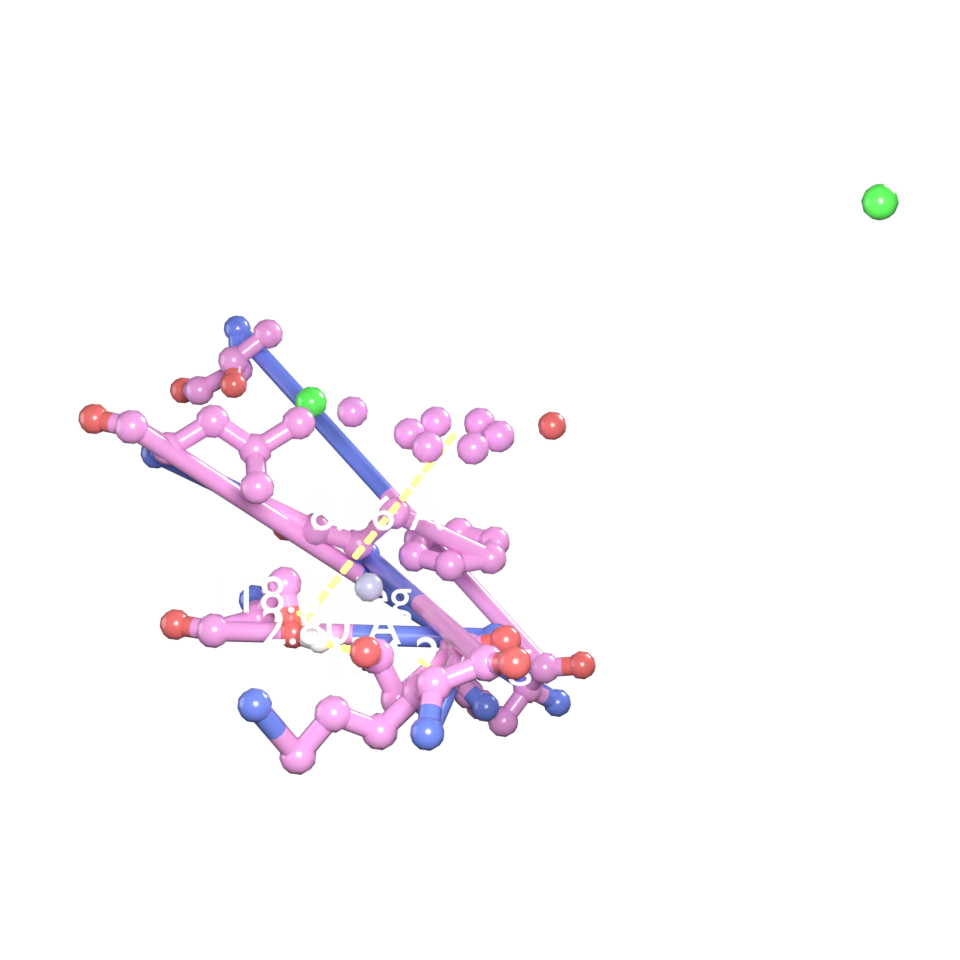
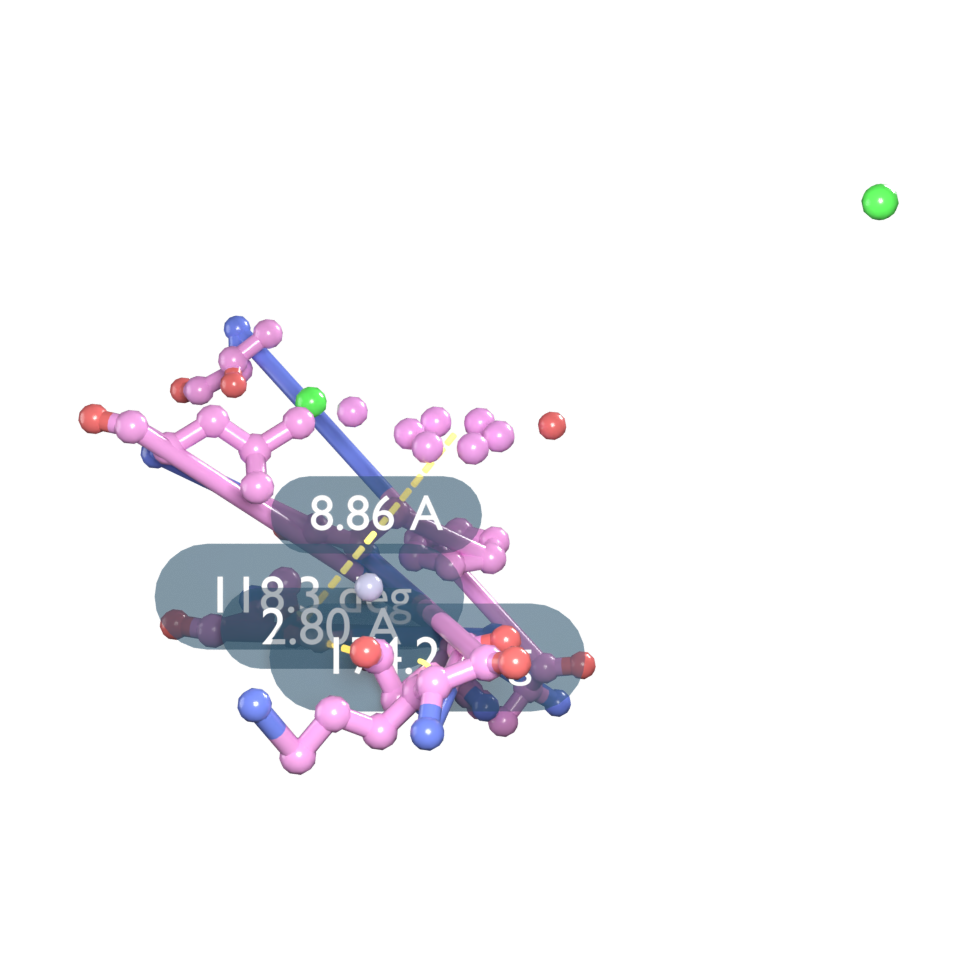
Give distances a backing, and round the corners of every card
White text over a pale molecule is unreadable, and a distance is the one label
that has to be read or it is decoration. Interaction distances and measured
values now sit on a translucent pill.

Pill-shaped and cooler than the residue cards, so the two kinds of label are
told apart by shape and tint rather than by reading them. Same backing for a
detected distance and a measured one, since both are a number over a molecule.

The corners are rounded now, on the residue cards too. D-16 has claimed a
"rounded backing plane" since it was written; the geometry was a four-vertex
quad. `rounded_rectangle` builds the outline, with the corner radius as a
fraction of the shorter half extent, so 0 is the old square card and 1 is the
pill.

The card builder moves to core.geometry, next to make_text and billboard. It
was private to the annotate package, and interactions and measure both needed
it — reaching across for it would have been worse than moving it.

`label_card=False` on either drawing call restores the bare text. The three
tests that counted objects per drawn measurement now expect the card and check
it is rounded and parented to its text.

Changed region(s): [[0.1562, 0.4688, 0.625, 0.75]]

diff --git a/blender_gala/core/geometry.py b/blender_gala/core/geometry.py
@@ -12,6 +12,7 @@ into data blocks.
 
 from __future__ import annotations
 
+import math
 from typing import Any
 
 import numpy as np
@@ -30,6 +31,7 @@ __all__ = [
     "billboard",
     "dash_segments",
     "dihedral_arc_points",
+    "make_card",
     "make_curve",
     "make_line",
     "make_text",
@@ -477,3 +479,139 @@ def billboard(obj: Any, camera: Any = None) -> Any:
     constraint = obj.constraints.new("COPY_ROTATION")
     constraint.target = camera
     return obj
+
+
+def rounded_rectangle(
+    half_width: float,
+    half_height: float,
+    corner: float = 0.35,
+    segments: int = 6,
+) -> list[tuple[float, float, float]]:
+    """Return the outline of a rectangle with rounded corners, anticlockwise.
+
+    Parameters
+    ----------
+    half_width, half_height : float
+        Half extents in local X and Y.
+    corner : float
+        Corner radius as a fraction of the shorter half extent. ``0`` is a
+        plain rectangle and ``1`` a pill — a full semicircle at each end.
+    segments : int
+        Straight segments per corner arc.
+
+    Returns
+    -------
+    list of tuple
+        Vertices in local space, at z = 0.
+    """
+    radius = max(0.0, min(corner, 1.0)) * min(half_width, half_height)
+    if radius <= 0.0:
+        return [
+            (-half_width, -half_height, 0.0),
+            (half_width, -half_height, 0.0),
+            (half_width, half_height, 0.0),
+            (-half_width, half_height, 0.0),
+        ]
+
+    inner_x = half_width - radius
+    inner_y = half_height - radius
+    points: list[tuple[float, float, float]] = []
+    for centre_x, centre_y, start in (
+        (inner_x, -inner_y, -math.pi / 2),
+        (inner_x, inner_y, 0.0),
+        (-inner_x, inner_y, math.pi / 2),
+        (-inner_x, -inner_y, math.pi),
+    ):
+        for step in range(segments + 1):
+            angle = start + (math.pi / 2) * (step / segments)
+            points.append(
+                (
+                    centre_x + radius * math.cos(angle),
+                    centre_y + radius * math.sin(angle),
+                    0.0,
+                )
+            )
+    return points
+
+
+#: Backing for a number sitting over a molecule — an interaction's distance or
+#: a measurement's value. Cool, dark and see-through, against the residue
+#: cards' neutral near-black, and used with a pill shape: different tint and
+#: different outline, so which kind of label you are looking at needs no
+#: thought. White text on a pale molecule is otherwise unreadable.
+LABEL_CARD_COLOUR = (0.02, 0.07, 0.12, 0.62)
+
+
+def make_card(
+    text_object: Any,
+    colour: tuple[float, float, float, float],
+    padding: float = 0.35,
+    corner: float = 0.35,
+    collection: str = gala_collections.LABELS,
+    gala_type: str = "label_card",
+    material_name: str = "GALA Label Card",
+) -> Any | None:
+    """Create a translucent rounded plane sized to sit behind a text object.
+
+    Parameters
+    ----------
+    text_object : bpy.types.Object
+        The ``FONT`` object to back. The card is parented to it, so it inherits
+        the billboard constraint and stays behind the glyphs from any angle.
+    colour : tuple of float
+        Card RGBA. The alpha is what makes it a tint over the scene rather
+        than a hole in it.
+    padding : float
+        Extra size around the text, as a fraction of its dimensions.
+    corner : float
+        Corner rounding, ``0`` square through ``1`` for a pill. See
+        :func:`rounded_rectangle`.
+    collection : str
+        Gala collection to link into — the label's own, so that clearing that
+        category takes its cards with it.
+    gala_type : str
+        Tag to apply.
+    material_name : str
+        Name for the card material.
+
+    Returns
+    -------
+    bpy.types.Object or None
+        ``None`` when the text has no dimensions to measure yet.
+    """
+    bpy_mod = _require_bpy()
+    from ..scene import materials as gala_materials
+
+    # Text dimensions are only valid once the depsgraph has evaluated the font.
+    bpy_mod.context.view_layer.update()
+    width, height, _ = text_object.dimensions
+    if width <= 0 or height <= 0:
+        return None
+
+    half_w = width * (0.5 + padding)
+    half_h = height * (0.5 + padding * 2.0)
+    points = rounded_rectangle(half_w, half_h, corner)
+
+    mesh = bpy_mod.data.meshes.new(f"{text_object.name} card")
+    mesh.from_pydata(points, [], [list(range(len(points)))])
+    mesh.update()
+
+    card = bpy_mod.data.objects.new(f"{text_object.name} card", mesh)
+    # Behind the text along the label's local -Z.
+    card.location = (0.0, 0.0, -max(width, height) * 0.01)
+    card.parent = text_object
+
+    material = gala_materials.build_material(
+        gala_materials.MATERIAL_PRESETS["label"].with_(
+            base_color=colour,
+            emission_strength=0.0,
+            alpha=colour[3],
+            use_attribute_color=False,
+        ),
+        name=material_name,
+    )
+    mesh.materials.append(material)
+
+    gala_collections.link_object(card, collection)
+    gala_collections.tag(card, gala_type)
+    return card

diff --git a/blender_gala/annotate/labels.py b/blender_gala/annotate/labels.py
@@ -167,7 +167,7 @@ def label(
         created.append(obj)
 
         if style == "card":
-            card = _make_card(obj, card_colour, padding=0.35)
+            card = geometry.make_card(obj, card_colour, padding=0.35, corner=0.35)
             if card is not None:
                 created.append(card)
 
@@ -228,58 +228,6 @@ def _label_entries(
         )
         entries.append((body, position))
     return entries
-
-
-def _make_card(
-    text_object: Any,
-    colour: tuple[float, float, float, float],
-    padding: float = 0.35,
-) -> Any | None:
-    """Create a translucent plane sized to sit behind a text object."""
-    bpy_mod = _require_bpy()
-
-    # Text dimensions are only valid once the depsgraph has evaluated the font.
-    bpy_mod.context.view_layer.update()
-    width, height, _ = text_object.dimensions
-    if width <= 0 or height <= 0:
-        return None
-
-    half_w = width * (0.5 + padding)
-    half_h = height * (0.5 + padding * 2.0)
-
-    mesh = bpy_mod.data.meshes.new(f"{text_object.name} card")
-    mesh.from_pydata(
-        [
-            (-half_w, -half_h, 0.0),
-            (half_w, -half_h, 0.0),
-            (half_w, half_h, 0.0),
-            (-half_w, half_h, 0.0),
-        ],
-        [],
-        [(0, 1, 2, 3)],
-    )
-    mesh.update()
-
-    card = bpy_mod.data.objects.new(f"{text_object.name} card", mesh)
-    # Behind the text along the label's local -Z, so the billboard constraint
-    # keeps the card behind the glyphs from every angle.
-    card.location = (0.0, 0.0, -max(width, height) * 0.01)
-    card.parent = text_object
-
-    material = gala_materials.build_material(
-        gala_materials.MATERIAL_PRESETS["label"].with_(
-            base_color=colour,
-            emission_strength=0.0,
-            alpha=colour[3],
-            use_attribute_color=False,
-        ),
-        name="GALA Label Card",
-    )
-    mesh.materials.append(material)
-
-    gala_collections.link_object(card, gala_collections.LABELS)
-    gala_collections.tag(card, "label_card")
-    return card
 
 
 def label_residues(

diff --git a/tests/test_blender_integration.py b/tests/test_blender_integration.py
@@ -234,7 +234,20 @@ def test_interaction_labels_are_optional(site_molecule):
     found = detect.hydrogen_bonds(structure)
 
     assert len(draw.draw_interactions(found, target=structure, label=False)) == 1
-    assert len(draw.draw_interactions(found, target=structure, label=True)) == 2
+    assert (
+        len(
+            draw.draw_interactions(
+                found, target=structure, label=True, label_card=False
+            )
+        )
+        == 2
+    ), "the line and its text"
+
+    created = draw.draw_interactions(found, target=structure, label=True)
+    assert len(created) == 3, "the line, its text and the pill behind it"
+    card = created[-1]
+    assert card.parent is created[-2], "the card rides with the text it backs"
+    assert len(card.data.vertices) > 4, "rounded, not a plain quad"
 
 
 @requires_mn
@@ -264,12 +277,15 @@ def test_distance_draws_a_line_and_a_label(site_molecule):
     result = measurements.distance(
         site_molecule, "resi 1 and name OG", "resi 2 and name OD1", draw=True
     )
-    assert len(result.objects) == 2
+    assert len(result.objects) == 3, "the line, its value and the pill behind it"
     kinds = {obj.get("gala_type") for obj in result.objects}
     assert kinds == {"measurement_distance", "measurement_label_distance"}
 
     label = next(o for o in result.objects if o.type == "FONT")
     assert label.data.body == "2.80 A"
+
+    card = next(o for o in result.objects if o.type == "MESH" and o.parent is label)
+    assert len(card.data.vertices) > 4, "rounded, not a plain quad"
 
 
 @requires_mn
@@ -315,7 +331,7 @@ def test_clear_measurements(site_molecule):
     measurements.distance(
         site_molecule, "resi 1 and name OG", "resi 2 and name OD1", draw=True
     )
-    assert draw.clear_measurements() == 2
+    assert draw.clear_measurements() == 3, "line, value and card go together"
 
 
 # ---------------------------------------------------------------------------

diff --git a/blender_gala/interactions/draw.py b/blender_gala/interactions/draw.py
@@ -88,6 +88,7 @@ def draw_interactions(
     target: Any = None,
     styles: dict[str, InteractionStyle] | None = None,
     label: bool | None = None,
+    label_card: bool = True,
     label_template: str = "{distance:.1f}",
     label_size: float = 1.2,
     name_prefix: str = "GALA",
@@ -108,6 +109,9 @@ def draw_interactions(
         :data:`INTERACTION_STYLES`.
     label : bool, optional
         Force distance labels on or off. ``None`` uses each style's default.
+    label_card : bool, optional
+        Put a translucent pill behind each distance label. On by default: the
+        text is white, and white on a pale molecule is unreadable.
     label_template : str, optional
         ``str.format`` template with ``distance``, ``angle``, ``kind`` and
         ``label`` available.
@@ -184,6 +188,23 @@ def draw_interactions(
         )
         geometry.billboard(text_object)
         created.append(text_object)
+
+        # A pill behind the number. White text on a pale protein is unreadable,
+        # and a distance is the one label that has to be legible or it is just
+        # decoration. Pill-shaped and cooler than the residue cards, so the two
+        # kinds of label are told apart at a glance rather than read.
+        if label_card:
+            card = geometry.make_card(
+                text_object,
+                geometry.LABEL_CARD_COLOUR,
+                padding=0.3,
+                corner=1.0,
+                collection=gala_collections.INTERACTIONS,
+                gala_type=f"interaction_label_{interaction.kind}",
+                material_name="GALA Interaction Label Card",
+            )
+            if card is not None:
+                created.append(card)
 
     return created
 

diff --git a/blender_gala/measure/draw.py b/blender_gala/measure/draw.py
@@ -36,6 +36,7 @@ def draw_measurement(
     label_template: str | None = None,
     label_size: float = 1.5,
     label_offset: float = 0.5,
+    label_card: bool = True,
     arc: bool = True,
     scale: float | None = None,
 ) -> list[Any]:
@@ -65,6 +66,9 @@ def draw_measurement(
         available. Defaults to the formatted value, e.g. ``"2.85 A"``.
     label_size : float, optional
         Text size in ångström.
+    label_card : bool, optional
+        Put a translucent pill behind the value, so white text stays readable
+        over a pale molecule.
     label_offset : float, optional
         How far to lift the label off the line, in ångström.
     arc : bool, optional
@@ -163,6 +167,19 @@ def draw_measurement(
         )
         geometry.billboard(text_object)
         created.append(text_object)
+
+        if label_card:
+            card = geometry.make_card(
+                text_object,
+                geometry.LABEL_CARD_COLOUR,
+                padding=0.3,
+                corner=1.0,
+                collection=gala_collections.MEASUREMENTS,
+                gala_type=f"measurement_label_{measurement.kind}",
+                material_name="GALA Measurement Label Card",
+            )
+            if card is not None:
+                created.append(card)
 
     return created
 

diff --git a/SPECIFICATION.md b/SPECIFICATION.md
@@ -302,12 +302,18 @@ line it draws — dashed or solid — so a hydrogen bond behaves like any other
 scene object.
 
 **D-16. Text labels get both treatments.** `label_3d()` creates a real `FONT`
-object ("in-scene card", optionally with a rounded backing plane and a
+object ("in-scene card", optionally with a rounded backing plane — actually
+rounded, since D-16 claimed it long before the geometry did — and a
 `COPY_ROTATION` billboard constraint — not `TRACK_TO`, which aims each label at
 the camera and then rolls it towards world +Y, so labels in different places
 come out tipped by different amounts). `label_hud()` registers an MN annotation so
 the label is a resolution-independent 2D overlay for compositing. The objective
 asked for both; they solve different problems.
+
+Values — an interaction's distance, a measurement's number — get a backing too,
+as a pill rather than a rounded rectangle and in a cooler tint. White text over
+a pale molecule is unreadable without one, and the different outline says which
+kind of label it is without anyone having to read it.
 
 **D-17. Everything Gala creates lives under a `Gala` collection**, sub-divided
 into `Gala/Interactions`, `Gala/Measurements`, `Gala/Labels`, `Gala/Lighting`.

diff --git a/docs/guide/measurement.md b/docs/guide/measurement.md
@@ -126,6 +126,11 @@ gala.label_atoms(mol, "resn ZN", template="{elem}")
 label legible over a busy molecular surface. The card is parented to the text
 and billboards with it.
 
+Distances and measured values get a translucent pill behind them for the same
+reason, in a cooler tint and a different outline from the residue cards, so the
+two kinds of label are distinguishable at a glance. Pass `label_card=False` to
+`draw_interactions` or `draw_measurement` for bare text.
+
 Billboarding copies the camera's rotation rather than tracking it, so every
 label is level with the frame and parallel to every other. Tracking would aim
 each label at the camera and then roll it towards world +Y, which tips labels
